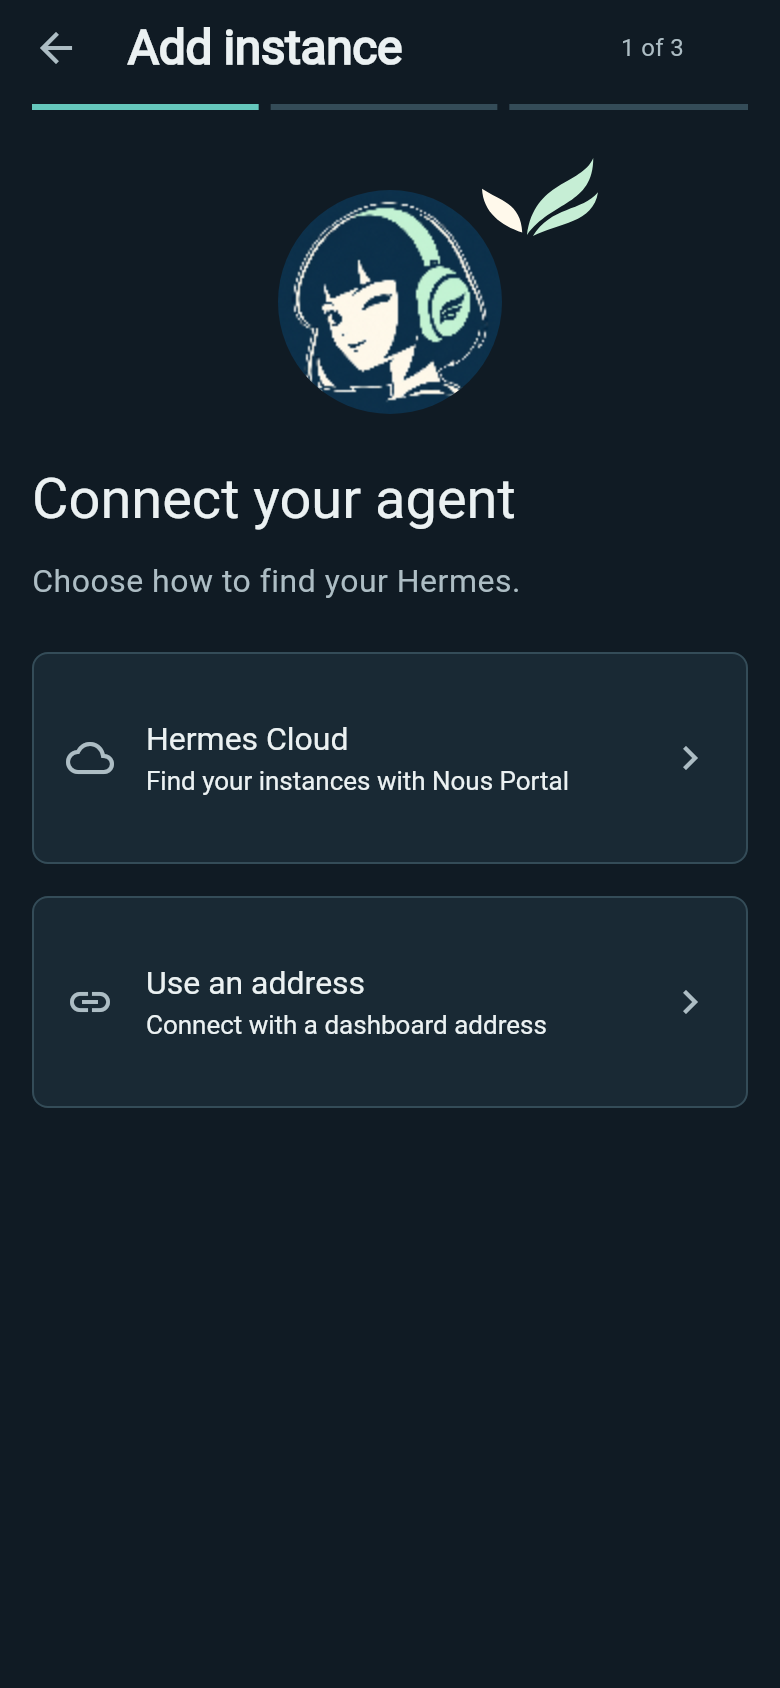
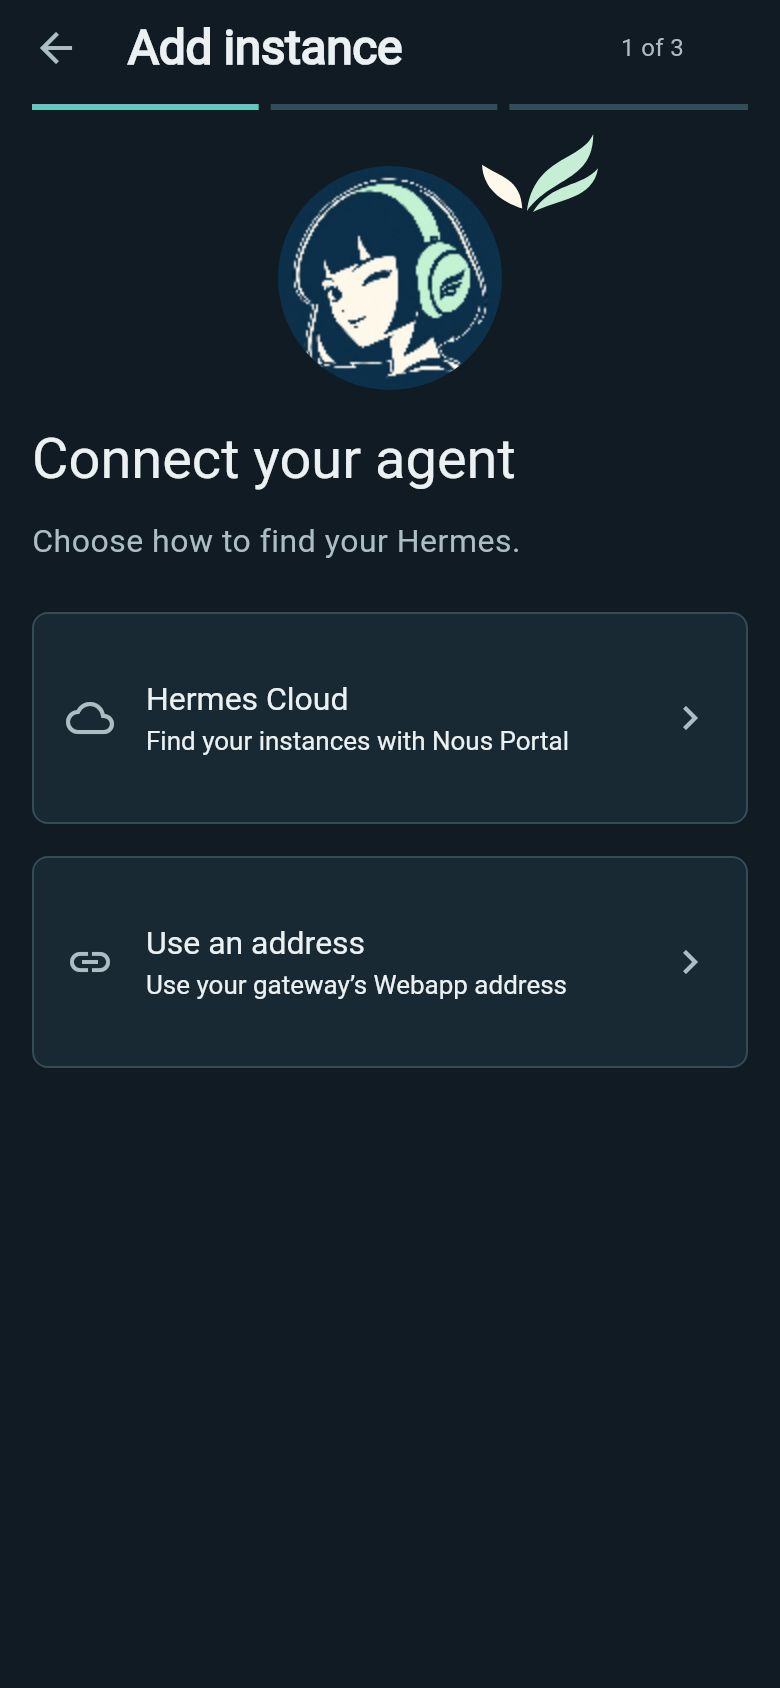
Refresh Wing 1.4 onboarding screenshots and release notes

diff --git a/get-started.html b/get-started.html
@@ -82,15 +82,21 @@
 </figure>
 <figure class="guide-shot guide-inline-shot">
 <div class="app-frame">
-<a class="screenshot-link" data-screenshot href="assets/screenshots/connection-address-dark.png" aria-label="Enlarge screenshot: Wing setup asking for the Hermes gateway Webapp address"><img src="assets/screenshots/connection-address-dark.png" width="618" height="1098" alt="Wing setup asking for the Hermes gateway Webapp address" loading="lazy"></a>
+<a class="screenshot-link" data-screenshot href="assets/screenshots/connection-address-dark.png" aria-label="Enlarge screenshot: Wing setup asking for the Hermes gateway Webapp address"><img src="assets/screenshots/connection-address-dark.png" width="780" height="1688" alt="Wing setup asking for the Hermes gateway Webapp address" loading="lazy"></a>
 </div>
 <figcaption>Using your own server? Enter its gateway Webapp address, then your login if required.</figcaption>
 </figure>
 <figure class="guide-shot guide-inline-shot">
 <div class="app-frame">
-<a class="screenshot-link" data-screenshot href="assets/screenshots/connection-verified-dark.png" aria-label="Enlarge screenshot: Wing verified connection ready to name and save"><img src="assets/screenshots/connection-verified-dark.png" width="618" height="1098" alt="Wing verified connection ready to name and save" loading="lazy"></a>
+<a class="screenshot-link" data-screenshot href="assets/screenshots/connection-check-dark.png" aria-label="Enlarge screenshot: Wing showing successful profile, live chat and history checks"><img src="assets/screenshots/connection-check-dark.png" width="780" height="1688" alt="Wing showing successful profile, live chat and history checks" loading="lazy"></a>
 </div>
-<figcaption>Use Next or swipe between setup cards. Check connection keeps its results on screen; after success, tap Next to name the instance, then Save and open.</figcaption>
+<figcaption>Check connection shows each result. Completed results stay valid for five minutes as you move between cards, unless connection details change.</figcaption>
+</figure>
+<figure class="guide-shot guide-inline-shot">
+<div class="app-frame">
+<a class="screenshot-link" data-screenshot href="assets/screenshots/connection-verified-dark.png" aria-label="Enlarge screenshot: Wing verified connection ready to name and save"><img src="assets/screenshots/connection-verified-dark.png" width="780" height="1688" alt="Wing verified connection ready to name and save" loading="lazy"></a>
+</div>
+<figcaption>After the checks pass, use Next or swipe to the final card. Name the instance, then tap the checkmark to save and open it.</figcaption>
 </figure>
 </div>
 <p>Use an address that opens in your phone’s browser. Most setups can leave <strong>Custom setup</strong> alone.</p>
